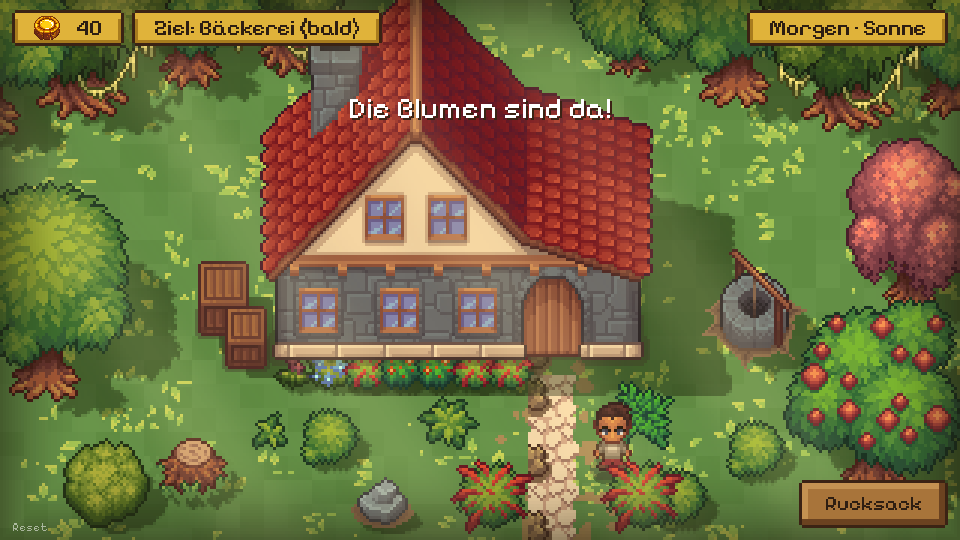
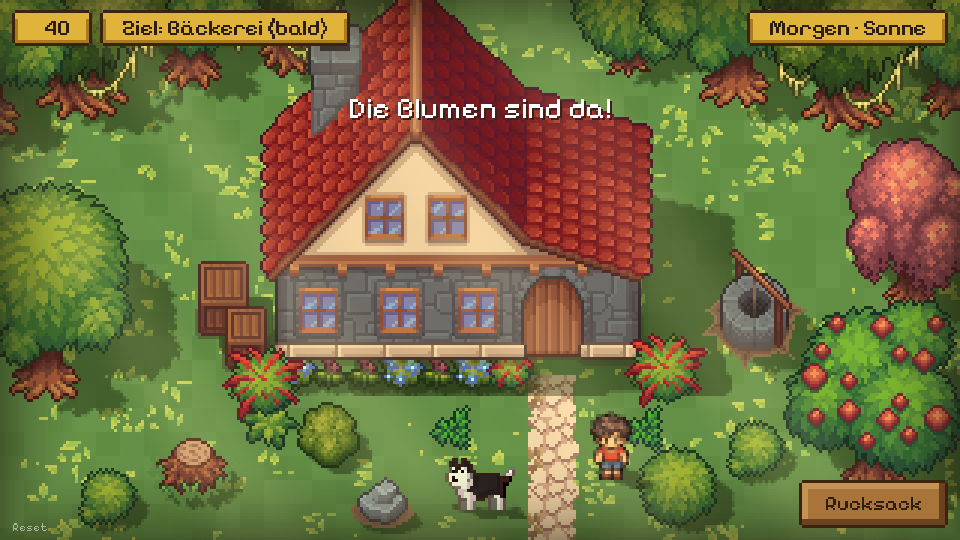
Max as a child (kovcrewq41 npc_boy), Brezel black-and-white collie (Admurin dog), rewards placed clear of characters

diff --git a/docs/main.js b/docs/main.js
@@ -39,7 +39,7 @@ class Yard extends Phaser.Scene {
     this.add.image(0, 0, 'v3_yard_bg').setOrigin(0, 0).setDepth(-10); this.add.image(0, 0, 'v3_light_overlay').setOrigin(0, 0).setDepth(2000);
     this.house = v3(this, 'v3_house', lay.house);
     this.hero = v3(this, 'v3_hero', lay.hero, undefined, lay.origin_hero);
-    this.brezel = v3(this, 'v3_brezel', lay.brezel).setVisible(false); // TODO: Brezel in the right scale (no fitting dog in the packs yet)
+    this.brezel = v3(this, 'v3_brezel', lay.brezel, undefined, lay.origin_brezel);
     this.tweens.add({ targets: this.brezel, scaleY: this.brezel.scaleY * 1.04, duration: 700, yoyo: true, repeat: -1 });
     if (state.done) { this.reward = this.lay.reward.map(xy => v3(this, 'v3_reward_flowers', xy)); $('goalTxt').textContent = 'Ziel: Bäckerei (bald)'; }
     else { this.arrow = this.add.triangle(480, 40, 0, 0, 36, 0, 18, 26, 0xffd23f).setDepth(999).setStrokeStyle(3, 0x3b2314); this.tweens.add({ targets: this.arrow, y: 56, duration: 500, yoyo: true, repeat: -1 }); $('goalTxt').textContent = 'Ziel: Elternhaus'; }

diff --git a/design-doc/ai-generated/assets.md b/design-doc/ai-generated/assets.md
@@ -8,3 +8,6 @@
 | fonts/*.ttf | Pixelify Sans, Press Start 2P, VT323 (Google Fonts) | SIL OFL 1.1 |
 | phaser.min.js | Phaser 4.2.1 | MIT |
 | v3_* (yard_bg, house, room_bg, hero, npc, reward_flowers) | craftpix: Main Character's Home, Top-Down Trees, Top-Down Bushes, Guild Hall (Citizen2, Guildmaster, Walls_interior); сборка tasks\world_v2\style_pick\build_proto_v3.py | craftpix free license |
+| v3_hero (Max, ребёнок) | Classic RPG Walking Characters Vol.1 Free Sampler, kovcrewq41 (itch.io), npc_boy | free, коммерция OK |
+| v3_brezel (бордер-колли) | Top-Down Mobs Dog, Admurin (itch.io), перекраска в чёрно-белый | free, коммерция OK, без перепродажи |
+| v3_room_bg | craftpix Main Character's Home, карта Interior1.tmx художника (наши правки: убраны висящие вещи) | craftpix free license |
